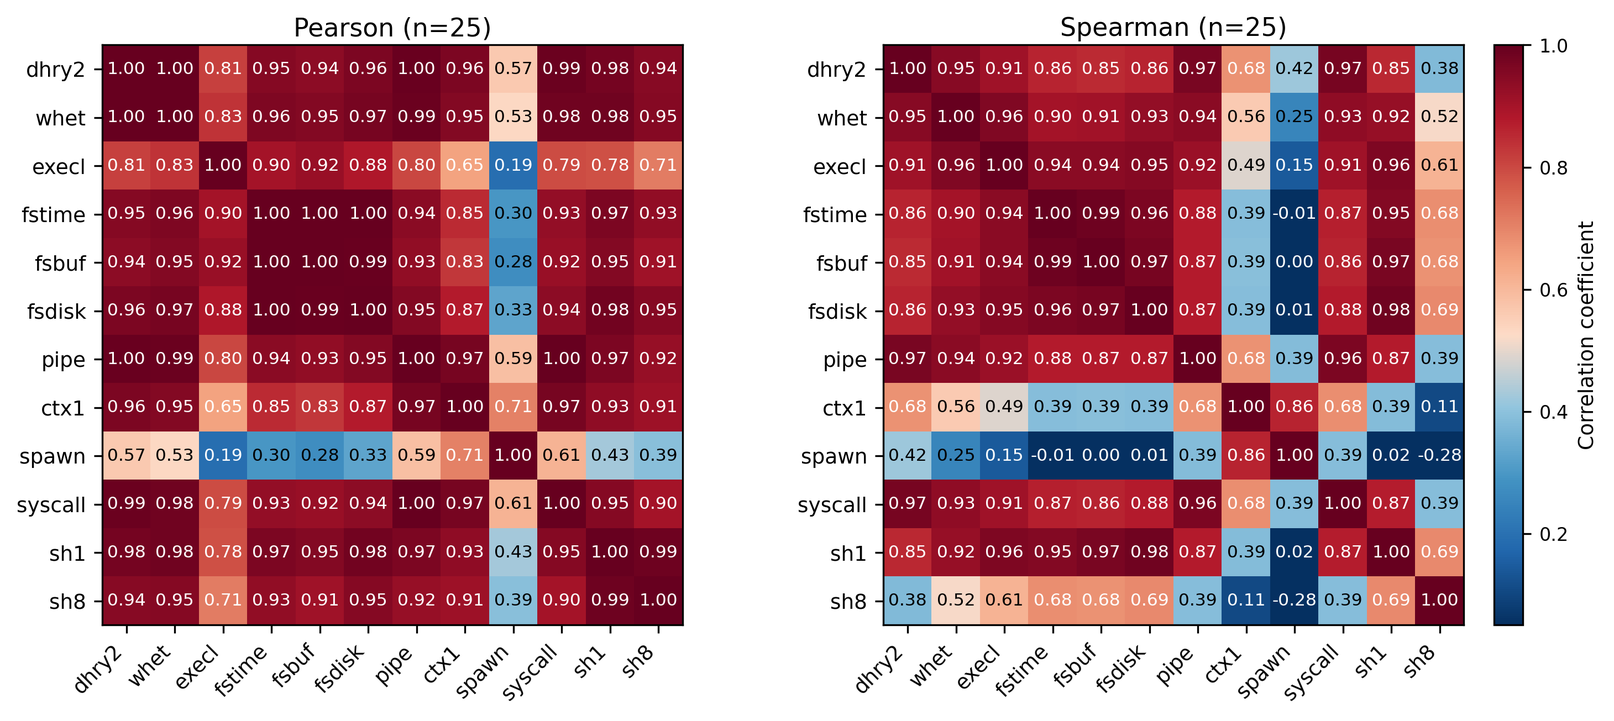
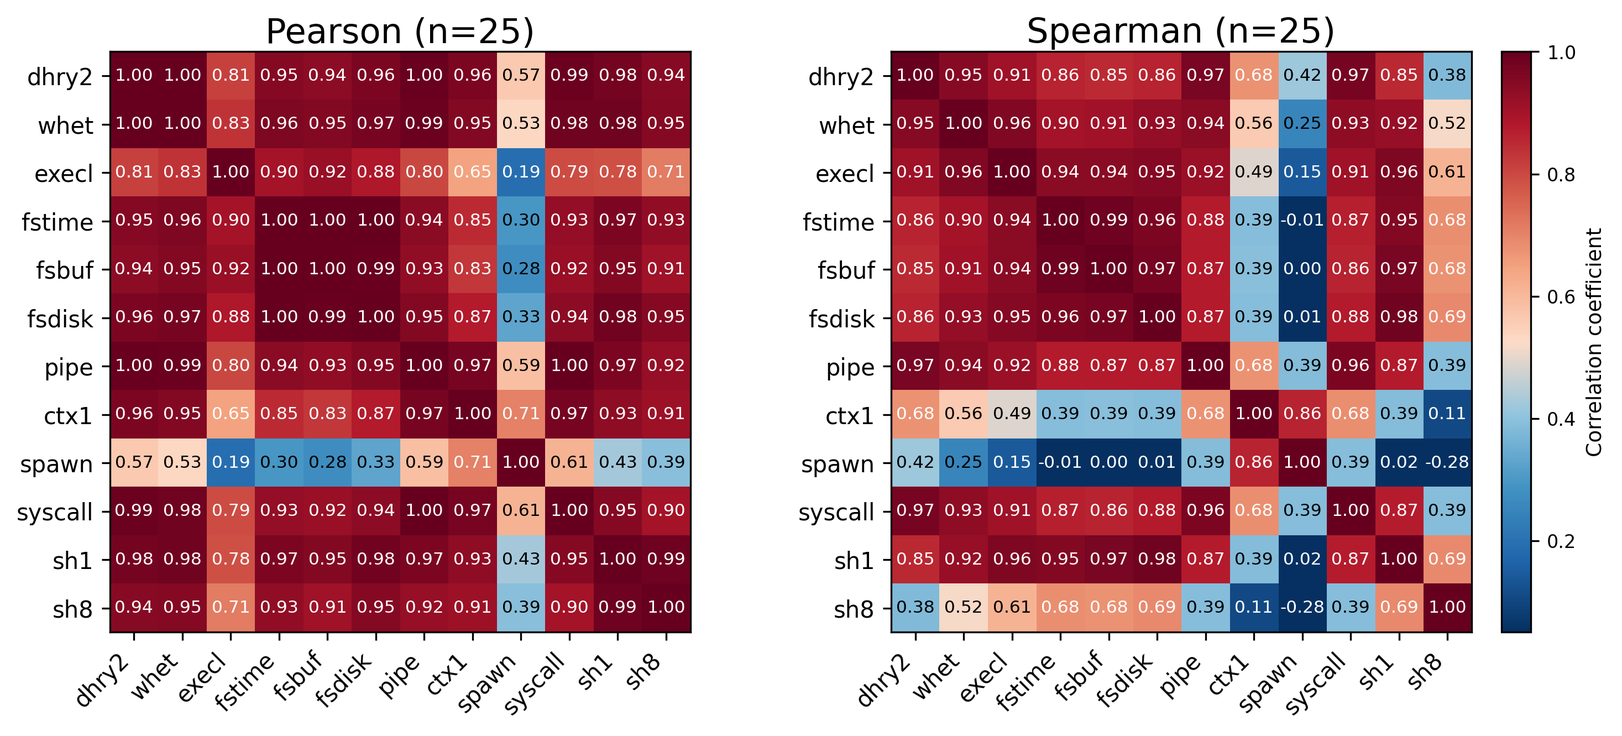
modify paper

diff --git a/paper/paper.tex b/paper/paper.tex
@@ -317,21 +317,18 @@ This cost can be substantial for suites with many components or long measurement
 Although comprehensive suites contain dozens of subtests, many of these workloads stress overlapping hardware subsystems. Our profiling reveals that seemingly diverse tasks within UnixBench---such as integer computation (\id{dhry2reg}), process creation (\id{spawn}), and inter-process communication (\id{pipe})---often bottleneck on the same underlying OS scheduling overheads or memory hierarchy mechanisms. Because these subtests are merely different software projections of the same underlying hardware capacity, executing all of them yields diminishing returns in information gain. This physical redundancy indicates that a carefully routed, minimal subset of experts is theoretically sufficient to expose the current system's overall performance limits.
 
 To make this redundancy explicit and quantifiable, we pool $n{=}25$ complete single-copy UnixBench runs (\id{perl Run -c 1}) collected across our five evaluation hosts (2\,U/8\,GiB through 32\,U/128\,GiB; Table~\ref{tab:testbeds}), yielding five independent full-suite repetitions per machine. For each run we extract the official per-subtest index score for all $N{=}12$ components (\id{dhry2reg}, \id{whetstone-double}, \id{execl}, \id{fstime}, \id{fsbuffer}, \id{fsdisk}, \id{pipe}, \id{context1}, \id{spawn}, \id{syscall}, \id{shell1}, \id{shell8}) and compute pairwise association matrices. Figure~\ref{fig:unixbench-subtest-correlation} reports both Pearson (linear) and Spearman (rank) correlations side-by-side; Spearman is less sensitive to outliers when suite indices span more than a $2\times$ range across hosts (roughly 1590--3190 on our testbeds).
-
-The heatmaps reveal strong intra-cluster coupling and comparatively weak cross-cluster coupling---precisely the structure a Mixture-of-Experts router should exploit. Under Pearson correlation, off-diagonal pairs average $0.85$ (median $0.94$; range $[0.19,\,0.999]$). A dense CPU/compute block emerges among \id{dhry2reg}, \id{whetstone-double}, \id{pipe}, and \id{syscall} (e.g., $r{=}0.998$ for \id{pipe} and \id{syscall}, $r{\approx}0.998$ for \id{dhry2reg} and \id{whetstone-double}), indicating that these nominally distinct kernels co-move when overall CPU throughput changes. A separate filesystem block links \id{fstime}, \id{fsbuffer}, and \id{fsdisk} with $r{\ge}0.993$ among the three, reflecting shared dependence on page-cache behavior and block-device latency. Shell-script components \id{shell1} and \id{shell8} also move together ($r{=}0.989$), consistent with both exercising fork/exec and interpreted execution paths on the same host state.
-
-At the same time, several pairs remain weakly coupled, marking natural diversity axes for subset selection. Process-creation stress (\id{spawn}) decorrelates from filesystem micro-benchmarks ($r{\approx}0.28$--$0.33$ with \id{fstime}, \id{fsbuffer}, and \id{fsdisk}) and from \id{execl} ($r{=}0.19$), suggesting that fork-heavy behavior carries information not fully captured by CPU-rate or I/O-throughput proxies alone. Under Spearman rank correlation---which down-weights absolute score scale across machines---the median off-diagonal coefficient remains high ($0.86$), but \id{spawn} decouples further from \id{shell8} ($r{\approx}-0.28$) and shows near-zero association with \id{fstime} ($r{\approx}0$), highlighting that rank-order redundancy is not uniform across workload classes. Together, these patterns empirically justify horizontal cost reduction by \ourmethod: rather than executing all $N$ components, a router can select $K{\ll}N$ experts spanning distinct clusters (compute, filesystem, process control, shell/OS interaction) and a reconstructor can statistically recover the remaining correlated components from partial observations.
 \begin{figure}[t]
     \centering
     \includegraphics[width=1\linewidth]{images/unixbench_subtest_correlation_combined.pdf}
-    \caption{UnixBench subtest score correlation across five heterogeneous hosts ($n{=}25$ full single-copy runs, five repetitions per host).
-    Each cell $(i,j)$ reports the correlation between subtest indices $y_i$ and $y_j$ pooled over all runs; diagonal entries are unity by construction.
-    The left panel shows Pearson $r$ (linear co-movement of absolute index scores; mean off-diagonal $r{=}0.85$, median $0.94$).
-    The right panel shows Spearman rank correlation (median off-diagonal $\rho{=}0.86$), capturing rank-order association across hosts with different baseline performance.
-    Dark red cells indicate highly redundant subtest pairs (e.g., \id{fstime} and \id{fsbuffer}, \id{pipe} and \id{syscall}); lighter cells mark weaker coupling suited to complementary Top-$K$ selection (e.g., \id{spawn} versus filesystem or shell workloads).
-    Scores are the official per-subtest indices from \ourmethod{} UnixBench collection sessions in canonical single-copy suite order.}
+    \caption{Pairwise UnixBench subtest score correlation on five heterogeneous hosts ($n{=}25$ single-copy runs).
+    Left: Pearson $r$; right: Spearman $\rho$.
+    Dark red marks redundant pairs; lighter cells indicate weaker coupling for complementary Top-$K$ selection.}
     \label{fig:unixbench-subtest-correlation}
 \end{figure}
+The heatmaps reveal strong intra-cluster coupling and comparatively weak cross-cluster coupling---precisely the structure a Mixture-of-Experts router should exploit. Under Pearson correlation, off-diagonal pairs average $0.85$ (median $0.94$; range $[0.19,\,0.999]$). A dense CPU/compute block emerges among \id{dhry2reg}, \id{whetstone-double}, \id{pipe}, and \id{syscall} (e.g., $r{=}0.998$ for \id{pipe} and \id{syscall}, $r{\approx}0.998$ for \id{dhry2reg} and \id{whetstone-double}), indicating that these nominally distinct kernels co-move when overall CPU throughput changes. A separate filesystem block links \id{fstime}, \id{fsbuffer}, and \id{fsdisk} with $r{\ge}0.993$ among the three, reflecting shared dependence on page-cache behavior and block-device latency. Shell-script components \id{shell1} and \id{shell8} also move together ($r{=}0.989$), consistent with both exercising fork/exec and interpreted execution paths on the same host state.
+
+At the same time, several pairs remain weakly coupled, marking natural diversity axes for subset selection. Process-creation stress (\id{spawn}) decorrelates from filesystem micro-benchmarks ($r{\approx}0.28$--$0.33$ with \id{fstime}, \id{fsbuffer}, and \id{fsdisk}) and from \id{execl} ($r{=}0.19$), suggesting that fork-heavy behavior carries information not fully captured by CPU-rate or I/O-throughput proxies alone. Under Spearman rank correlation---which down-weights absolute score scale across machines---the median off-diagonal coefficient remains high ($0.86$), but \id{spawn} decouples further from \id{shell8} ($r{\approx}-0.28$) and shows near-zero association with \id{fstime} ($r{\approx}0$), highlighting that rank-order redundancy is not uniform across workload classes. Together, these patterns empirically justify horizontal cost reduction by \ourmethod: rather than executing all $N$ components, a router can select $K{\ll}N$ experts spanning distinct clusters (compute, filesystem, process control, shell/OS interaction) and a reconstructor can statistically recover the remaining correlated components from partial observations.
+
 
 \paragraph{Insight 2: Performance Metrics Exhibit Early Convergence.}
 When full-suite execution is unavoidable, traditional methodologies mandate a rigid run-to-completion model. However, we observe that many benchmark components are fundamentally iterative rate tests. For instance, the Dhrystone and Whetstone components in UnixBench~\cite{smith2011byte} continuously execute integer and floating-point kernels over a prolonged loop. Our telemetry shows that the computed operation rate (e.g., operations per second) typically stabilizes and converges within the first few seconds of execution. Continuing the workload to its official timeout primarily reduces statistical variance rather than altering the fundamental performance metric. This insight reveals a massive opportunity for vertical cost reduction via aggressive, time-bounded probing.
@@ -605,7 +602,7 @@ Consequently, if the reconstructor encounters an anomalous, out-of-distribution 
 
 We deploy \appname{} on five Linux machines spanning a wide range of CPU and memory capacities.
 Table~\ref{tab:testbeds} summarizes the hardware configuration of each host.
-H1 (32 logical CPUs, 128\,GiB RAM, NVIDIA RTX 3090 Ti GPU) serves as the development server and is the only machine on which \ptsgpu{} is run; H2--H5 are smaller CPU-only instances used for UnixBench and \ptscpu{} evaluation.
+H1 (32 vCPUs, Intel Core i9-14900K, 128\,GiB RAM, NVIDIA RTX 3090 Ti GPU) serves as the development server and is the only machine on which \ptsgpu{} is run; H2--H5 are smaller CPU-only cloud instances (Intel Xeon 6982P-C or Xeon Platinum) used for UnixBench and \ptscpu{} evaluation.
 To ensure strict reproducibility, all machines share the same base software stack (Ubuntu 22.04.5 LTS, GCC 11.5.0).
 Furthermore, for H1, the environment is specifically configured with NVIDIA driver version 580.159.03, PyTorch 2.12.0+cu130, and TensorFlow 2.21.0.
 We label hosts by a compact CPU$\times$RAM shorthand used throughout this section.
@@ -613,19 +610,19 @@ We label hosts by a compact CPU$\times$RAM shorthand used throughout this sectio
 
 \begin{table}[t]
 \centering
-\caption{Evaluation testbeds. Five Linux hosts with heterogeneous CPU and memory capacity. \ptsgpu{} runs only on H1.}
+\caption{Evaluation testbeds. Five Linux hosts with heterogeneous CPU and memory capacity. CPU models are taken from \path{/proc/cpuinfo} at collection time. \ptsgpu{} runs only on H1.}
 \label{tab:testbeds}
 \small
-\setlength{\tabcolsep}{6pt} 
-\begin{tabular}{@{}lrrc@{}}
+\setlength{\tabcolsep}{4pt}
+\begin{tabular}{@{}lp{0.36\linewidth}rc@{}}
 \toprule
-\textbf{Host} & \textbf{vCPU} & \textbf{RAM (GiB)} & \textbf{GPU} \\
+\textbf{Host} & \textbf{vCPU (CPU model)} & \textbf{RAM (GiB)} & \textbf{GPU} \\
 \midrule
-H1 & 32 & 128 & NVIDIA RTX 3090 Ti GPU \\
-H2 & 2  & 8   & ---    \\
-H3 & 4  & 8   & ---    \\
-H4 & 4  & 16  & ---    \\
-H5 & 8  & 8   & ---    \\
+H1 & 32 (Intel Core i9-14900K) & 128 & NVIDIA RTX 3090 Ti GPU \\
+H2 & 2 (Intel Xeon 6982P-C) & 8 & --- \\
+H3 & 4 (Intel Xeon 6982P-C) & 8 & --- \\
+H4 & 4 (Intel Xeon 6982P-C) & 16 & --- \\
+H5 & 8 (Intel Xeon Platinum) & 8 & --- \\
 \bottomrule
 \end{tabular}
 \end{table}
@@ -670,9 +667,9 @@ For fairness, we evaluate these baselines under the same train/test splits whene
 The remainder of Section~\ref{sec:evaluation} is organized around three execution routes.
 \textbf{(1)~Hybrid pipeline (\ourmethod{} main method):}
 collect $\mathbf{x}$, router Top-$K$, micro-probe selected components, reconstruct the suite score (router $\rightarrow$ probe $\rightarrow$ reconstruct).
-We first report five-host end-to-end effectiveness (Section~\ref{subsec:overall-effectiveness}), followed by an online uncertainty-guided active-refinement study on H1 (Section~\ref{subsec:hybrid-active-refinement}).
+We first report five-host end-to-end effectiveness (Section~\ref{subsec:overall-effectiveness}), followed by a runtime overhead analysis using UnixBench resource waveforms (Section~\ref{subsec:resource-waveforms}), then an online uncertainty-guided active-refinement study on H1 (Section~\ref{subsec:hybrid-active-refinement}).
 \textbf{(2)~Route~A ablation:}
-replace probe predictions with \emph{measured} partial sub-benchmark scores on the router-selected subset, then reconstruct (Section~\ref{subsec:model-combination}), with supplementary offline studies on Top-$K$, routing policy, system-feature ablation, and resource waveforms (Sections~\ref{subsec:topk-tradeoff}--\ref{subsec:feature-ablation}, Section~\ref{subsec:resource-waveforms}).
+replace probe predictions with \emph{measured} partial sub-benchmark scores on the router-selected subset, then reconstruct (Section~\ref{subsec:model-combination}), with supplementary offline studies on Top-$K$, routing policy, and system-feature ablation (Sections~\ref{subsec:topk-tradeoff}--\ref{subsec:feature-ablation}).
 \textbf{(3)~Route~B ablation:}
 probe every component without router selection or reconstruction (Section~\ref{subsec:probe-evaluation}), followed by telemetry-degradation and probe-duration sweeps (Sections~\ref{subsec:probe-ebpf-ablation},~\ref{subsec:probe-duration-sensitivity}).
 Unless noted, Hybrid and Route~A accuracy evaluations replay ground-truth scores from previously collected full runs on the same host; Route~B studies use online micro-probes on H1.
@@ -817,6 +814,69 @@ Table~\ref{tab:overall-effectiveness-expanded} reports suite-level relative erro
 UnixBench and \ptscpu{} rows cover five hosts; \ptsgpu{} rows report H1 only.
 \ourmethod achieves mean relative errors of $3.3\times10^{-5}\%$ (UnixBench), $3.4\times10^{-5}\%$ (\ptscpu), and $2.2\times10^{-5}\%$ (\ptsgpu) while reducing wall time by 95--100\% versus full-suite execution.
 Execution-free MLP baselines incur the lowest partial cost but exhibit high prediction error on \ptscpu{} and most UnixBench hosts.
+
+\subsection{Runtime Overhead Analysis}
+\label{subsec:resource-waveforms}
+
+Table~\ref{tab:overall-effectiveness-expanded} reports aggregate wall-time savings, but scalar execution times alone do not show \emph{how} CPU and memory footprints evolve during execution.
+To substantiate that \ourmethod{} incurs low runtime overhead beyond accuracy metrics, we capture online resource traces while running UnixBench under four conditions on each host: \emph{Full run} (complete \id{perl Run -c 1} suite), \emph{router only} (Route~A partial execution of router-selected Top-$K$ subtests), \emph{probe only} (Route~B micro-probes on all 12 components), and \emph{BenchScout} (full Hybrid: $\mathbf{x}$ collection, router Top-$K$, probe selected subtests, reconstruct).
+Each trace is sampled every $0.5$\,s and aligned to $t{=}0$ at the start of the corresponding run; curves in a panel are overlaid on shared axes for direct duration comparison.
+
+Figure~\ref{fig:resource-waveforms} summarizes traces from three representative hosts---32U128G (H1), 4U8G (H3), and 8U8G (H5)---arranged as a $2{\times}3$ grid (panels (a)--(f)).
+The top row reports CPU utilization (\%); the bottom row reports memory used (\%).
+On all three machines, the \emph{Full run} curve (blue) spans the entire ${\approx}1680$\,s UnixBench wall clock and exhibits repeated CPU bursts as subtests rotate through compute-, I/O-, and OS-intensive phases.
+\emph{Router only} (green) terminates after ${\approx}250$--$400$\,s once the Top-$K$ partial suite finishes, reaching similar peak CPU during active phases but eliminating the long tail of remaining subtests.
+\emph{Probe only} (orange) and \emph{BenchScout} (purple) complete within the first minute: probe-only executes twelve $D{=}4$\,s micro-probes sequentially, while BenchScout adds a short $\mathbf{x}$/router preamble plus three probes before reconstruction inference.
+Memory usage stays comparatively flat across modes (${\approx}15$--$30\%$ on 4U8G/8U8G hosts, slightly higher on 32U128G), confirming that wall-time reduction comes primarily from shorter CPU-active intervals rather than lower resident footprint.
+These traces visually corroborate the 95--100\% wall-time reductions in Table~\ref{tab:overall-effectiveness-expanded} and show that Hybrid and Route~B paths concentrate resource usage in the first minute rather than occupying the machine for the full ${\approx}28$\,min UnixBench duration.
+
+\begin{figure*}[t]
+    \centering
+    \begin{subfigure}[b]{0.32\textwidth}
+        \centering
+        \includegraphics[width=\linewidth]{images/waveform_32U128G_cpu.pdf}
+        \caption{32U128G, CPU.}
+        \label{fig:waveform-32u-cpu}
+    \end{subfigure}\hfill
+    \begin{subfigure}[b]{0.32\textwidth}
+        \centering
+        \includegraphics[width=\linewidth]{images/waveform_4U8G_cpu.pdf}
+        \caption{4U8G, CPU.}
+        \label{fig:waveform-4u-cpu}
+    \end{subfigure}\hfill
+    \begin{subfigure}[b]{0.32\textwidth}
+        \centering
+        \includegraphics[width=\linewidth]{images/waveform_8U8G_cpu.pdf}
+        \caption{8U8G, CPU.}
+        \label{fig:waveform-8u-cpu}
+    \end{subfigure}
+
+    \vspace{0.6em}
+
+    \begin{subfigure}[b]{0.32\textwidth}
+        \centering
+        \includegraphics[width=\linewidth]{images/waveform_32U128G_memory.pdf}
+        \caption{32U128G, memory.}
+        \label{fig:waveform-32u-mem}
+    \end{subfigure}\hfill
+    \begin{subfigure}[b]{0.32\textwidth}
+        \centering
+        \includegraphics[width=\linewidth]{images/waveform_4U8G_memory.pdf}
+        \caption{4U8G, memory.}
+        \label{fig:waveform-4u-mem}
+    \end{subfigure}\hfill
+    \begin{subfigure}[b]{0.32\textwidth}
+        \centering
+        \includegraphics[width=\linewidth]{images/waveform_8U8G_memory.pdf}
+        \caption{8U8G, memory.}
+        \label{fig:waveform-8u-mem}
+    \end{subfigure}
+    \caption{UnixBench CPU and memory waveforms under four execution modes on three hosts ($0.5$\,s sampling).
+    Each panel overlays \emph{Full run}, \emph{router only}, \emph{probe only}, and \emph{BenchScout} on shared axes ($t{=}0$ at run start).
+    Top row (a--c): CPU utilization; bottom row (d--f): memory used.
+    Router-only traces end after partial Top-$K$ execution; probe-only and BenchScout traces concentrate in the first minute.}
+    \label{fig:resource-waveforms}
+\end{figure*}
 
 \subsection{Uncertainty-Guided Active Refinement}
 \label{subsec:hybrid-active-refinement}
@@ -995,8 +1055,8 @@ On H1, suite relative error varies across policies for UnixBench and \ptscpu{}; 
 \caption{Routing / subset policy comparison at fixed $K=3$ (offline CV on H1). Bal.\ = balanced score (Equation~\ref{eq:balanced-score}; lower is better).}
 \label{tab:routing-policy}
 \small
-\setlength{\tabcolsep}{3pt}
-\begin{tabular}{l@{\hspace{4pt}}p{0.11\linewidth}cccc}
+\setlength{\tabcolsep}{4pt}
+\begin{tabular*}{\columnwidth}{@{\extracolsep{\fill}}l@{\hspace{4pt}}p{0.22\linewidth}cccc@{}}
 \toprule
 \textbf{Suite} & \textbf{Policy} & \textbf{Rel.\ err. (\%)} & \textbf{Saved (\%)} & \textbf{Bal.} & \textbf{Rank} \\
 \midrule
@@ -1027,71 +1087,8 @@ On H1, suite relative error varies across policies for UnixBench and \ptscpu{}; 
  & \id{greedy\_fastest} & 0.918 & 99.6 & 1.00 & 1 \\
  & \id{router}          & 0.918 & 96.2 & 1.01 & 5 \\
 \bottomrule
-\end{tabular}
+\end{tabular*}
 \end{table}
-
-\subsection{UnixBench Resource Usage Waveforms}
-\label{subsec:resource-waveforms}
-
-Table~\ref{tab:overall-effectiveness-expanded} and the Route~A ablation tables report aggregate wall-time savings, but they do not show \emph{how} CPU and memory footprints evolve during execution.
-To make the cost difference tangible, we capture online resource traces while running UnixBench under four conditions on each host: \emph{Full run} (complete \id{perl Run -c 1} suite), \emph{router only} (Route~A partial execution of router-selected Top-$K$ subtests), \emph{probe only} (Route~B micro-probes on all 12 components), and \emph{BenchScout} (full Hybrid: $\mathbf{x}$ collection, router Top-$K$, probe selected subtests, reconstruct).
-Each trace is sampled every $0.5$\,s and aligned to $t{=}0$ at the start of the corresponding run; curves in a panel are overlaid on shared axes for direct duration comparison.
-
-Figure~\ref{fig:resource-waveforms} summarizes traces from three representative hosts---32U128G (H1), 4U8G (H3), and 8U8G (H5)---arranged as a $2{\times}3$ grid (panels (a)--(f)).
-The top row reports CPU utilization (\%); the bottom row reports memory used (\%).
-On all three machines, the \emph{Full run} curve (blue) spans the entire ${\approx}1680$\,s UnixBench wall clock and exhibits repeated CPU bursts as subtests rotate through compute-, I/O-, and OS-intensive phases.
-\emph{Router only} (green) terminates after ${\approx}250$--$400$\,s once the Top-$K$ partial suite finishes, reaching similar peak CPU during active phases but eliminating the long tail of remaining subtests.
-\emph{Probe only} (orange) and \emph{BenchScout} (purple) complete within the first minute: probe-only executes twelve $D{=}4$\,s micro-probes sequentially, while BenchScout adds a short $\mathbf{x}$/router preamble plus three probes before reconstruction inference.
-Memory usage stays comparatively flat across modes (${\approx}15$--$30\%$ on 4U8G/8U8G hosts, slightly higher on 32U128G), confirming that wall-time reduction comes primarily from shorter CPU-active intervals rather than lower resident footprint.
-These traces visually corroborate the ${\approx}78$--$96\%$ wall-time savings reported for router-based partial execution and the sub-minute Hybrid/Route~B paths in Section~\ref{subsec:overall-effectiveness}.
-
-\begin{figure*}[t]
-    \centering
-    \begin{subfigure}[b]{0.32\textwidth}
-        \centering
-        \includegraphics[width=\linewidth]{images/waveform_32U128G_cpu.pdf}
-        \caption{32U128G, CPU.}
-        \label{fig:waveform-32u-cpu}
-    \end{subfigure}\hfill
-    \begin{subfigure}[b]{0.32\textwidth}
-        \centering
-        \includegraphics[width=\linewidth]{images/waveform_4U8G_cpu.pdf}
-        \caption{4U8G, CPU.}
-        \label{fig:waveform-4u-cpu}
-    \end{subfigure}\hfill
-    \begin{subfigure}[b]{0.32\textwidth}
-        \centering
-        \includegraphics[width=\linewidth]{images/waveform_8U8G_cpu.pdf}
-        \caption{8U8G, CPU.}
-        \label{fig:waveform-8u-cpu}
-    \end{subfigure}
-
-    \vspace{0.6em}
-
-    \begin{subfigure}[b]{0.32\textwidth}
-        \centering
-        \includegraphics[width=\linewidth]{images/waveform_32U128G_memory.pdf}
-        \caption{32U128G, memory.}
-        \label{fig:waveform-32u-mem}
-    \end{subfigure}\hfill
-    \begin{subfigure}[b]{0.32\textwidth}
-        \centering
-        \includegraphics[width=\linewidth]{images/waveform_4U8G_memory.pdf}
-        \caption{4U8G, memory.}
-        \label{fig:waveform-4u-mem}
-    \end{subfigure}\hfill
-    \begin{subfigure}[b]{0.32\textwidth}
-        \centering
-        \includegraphics[width=\linewidth]{images/waveform_8U8G_memory.pdf}
-        \caption{8U8G, memory.}
-        \label{fig:waveform-8u-mem}
-    \end{subfigure}
-    \caption{UnixBench CPU and memory waveforms under four execution modes on three hosts ($0.5$\,s sampling).
-    Each panel overlays \emph{Full run}, \emph{router only}, \emph{probe only}, and \emph{BenchScout} on shared axes ($t{=}0$ at run start).
-    Top row (a--c): CPU utilization; bottom row (d--f): memory used.
-    Router-only traces end after partial Top-$K$ execution; probe-only and BenchScout traces concentrate in the first minute.}
-    \label{fig:resource-waveforms}
-\end{figure*}
 
 \subsection{System Context Feature Ablation}
 \label{subsec:feature-ablation}
@@ -1113,7 +1110,7 @@ On \ptsgpu, \id{no\_gpu} yields the largest shift ($\Delta e_m = -0.10$~pp), ind
 \label{tab:feature-ablation}
 \small
 \setlength{\tabcolsep}{4pt}
-\begin{tabular}{l@{\hspace{4pt}}p{0.13\linewidth}ccc}
+\begin{tabular*}{\columnwidth}{@{\extracolsep{\fill}}l@{\hspace{4pt}}p{0.26\linewidth}ccc@{}}
 \toprule
 \textbf{Suite} & \textbf{Ablation mode} & \textbf{Rel.\ err. (\%)} & $\Delta e$ (pp) & \textbf{Imp.\ rank} \\
 \midrule
@@ -1135,7 +1132,7 @@ On \ptsgpu, \id{no\_gpu} yields the largest shift ($\Delta e_m = -0.10$~pp), ind
  & \id{no\_dynamic\_proc} & 0.957 & +0.04 & 2 \\
  & \id{no\_gpu}           & 0.818 & $-$0.10 & 4 \\
 \bottomrule
-\end{tabular}
+\end{tabular*}
 \end{table}
 
 \subsection{Probe Model Evaluation}
@@ -1251,40 +1248,6 @@ $D$ (s) & \textbf{Err (\%)} & $|\hat{Y}{-}Y|$ & $\hat{Y}$ & $T_{\mathrm{pr}}$ (s
 \bottomrule
 \end{tabular*}
 \end{table}
-
-\subsection{Summary of Findings}
-\label{subsec:eval-summary}
-
-Our evaluation on five heterogeneous Linux hosts is organized into Hybrid main/supplementary experiments, Route~A ablations with supplementary studies, and Route~B ablations (Section~\ref{subsec:exp-setup}).
-We run UnixBench and \ptscpu{} on all five machines and \ptsgpu{} on H1 only.
-\textbf{Q1:} Can the Hybrid pipeline approximate full-suite scores with significantly less execution time than full-suite execution and execution-free predictors?
-\textbf{Q2:} Does uncertainty-guided active refinement improve Hybrid accuracy on H1, and when is extra probing worthwhile?
-\textbf{Q3:} Which router--reconstructor combination works best under Route~A, and how should practitioners choose $K$, subset policy, and system features?
-\textbf{Q4:} How accurate and robust is probe-only suite prediction (Route~B), and which probe regressor and duration should be used?
-
-\begin{itemize}
-    \item \textbf{Overall effectiveness (Q1).} Hybrid reduces UnixBench wall time by 95.3\% on average with $3.3\times10^{-5}\%$ mean relative suite error, outperforming execution-free predictors and full-suite cost (Table~\ref{tab:overall-effectiveness-expanded}).
-
-    \item \textbf{Active refinement (Q2).} On H1 Hybrid, $\sigma$-guided refinement adds three micro-probes (${\approx}15$\,s) but suite relative error stays at 0.39\% (Table~\ref{tab:hybrid-active-refinement}) because partial observations are probe-predicted and $\sigma_{\mathrm{suite}}$ is already low after $K{=}3$; the loop is validated end-to-end.
-
-    \item \textbf{Route~A model combinations (Q3a).} On H1, MLP\,+\,LightGBM reconstruction is best for UnixBench (0.133\%) and \ptscpu{} (0.218\%); LightGBM\,+\,LightGBM is best for \ptsgpu{} (1.60\%). MLP reconstruction remains unstable on several combinations (Table~\ref{tab:model-combination}).
-
-    \item \textbf{Top-$K$ trade-off (Q3b).} Top-$K$ sweep on H1 recommends $K^\star=3$ for UnixBench and \ptsgpu, and $K^\star=2$ for \ptscpu{} on balanced score (Figure~\ref{fig:topk-pareto}); suite relative error improves modestly with larger $K$, so ranking reflects both accuracy and wall-time savings.
-
-    \item \textbf{Routing policies (Q3c).} At $K=3$ on H1, \id{greedy\_fastest} ranks first on balanced score for \ptscpu{} and \ptsgpu; on UnixBench \id{random} has the lowest error but \id{router} ranks third on balanced score (Table~\ref{tab:routing-policy}).
-
-    \item \textbf{Feature importance (Q3d).} On H1, static hardware and dynamic \path{/proc} ablations increase \ptscpu{} error by ${\approx}0.28$~pp; UnixBench shifts stay below $0.01$~pp. On \ptsgpu, removing GPU/OpenCL dimensions shifts error by $-0.10$~pp, the largest among ablated groups (Table~\ref{tab:feature-ablation}).
-
-    \item \textbf{Route~B probe models (Q4a).} On H1, XGBoost yields lower Route~B suite error than LightGBM on all three suites at the same probe wall time (Table~\ref{tab:probe-models}).
-
-    \item \textbf{Telemetry robustness (Q4b).} On H1 UnixBench Route~B, disabling eBPF completes all 12 micro-probes without failure and yields 0.17\% suite relative error vs.\ 0.27\% with bpftrace enabled (Table~\ref{tab:probe-ebpf-ablation}), confirming graceful degradation when high-fidelity tracing is unavailable.
-
-    \item \textbf{Probe budget (Q4c).} Duration-matched training on H1 shows sub-percent suite error for $D \in \{2,4,8\}$\,s (0.80\%, 0.56\%, 0.44\%; Table~\ref{tab:probe-duration-sensitivity}); accuracy improves with longer probes but with diminishing returns, while $D{=}2$\,s saves 88.6\% wall time vs.\ full execution.
-\end{itemize}
-
-These results collectively demonstrate that \appname{} makes full-suite benchmarking practical in settings where repeated, low-disruption measurement is required.
-This includes multi-machine comparison, configuration tuning, and production-adjacent monitoring, without abandoning the interpretability of established suite scores.
-
 
 
 \section{Related Work}

diff --git a/scripts/paper_unixbench_subtest_correlation_heatmap.py b/scripts/paper_unixbench_subtest_correlation_heatmap.py
@@ -231,7 +231,7 @@ def plot_combined_heatmap(
     elif layout == "horizontal-wide":
         fig, axes = plt.subplots(1, 2, figsize=(11.2, 5.0), dpi=150)
         fig.subplots_adjust(left=0.07, right=0.88, bottom=0.18, top=0.88, wspace=0.22)
-        tick_fs, ann_fs, title_fs = 9.0, 7.5, 11.0
+        tick_fs, ann_fs, title_fs = 10.0, 7.5, 15.0
     else:
         raise ValueError(f"unknown layout: {layout!r}")
 
